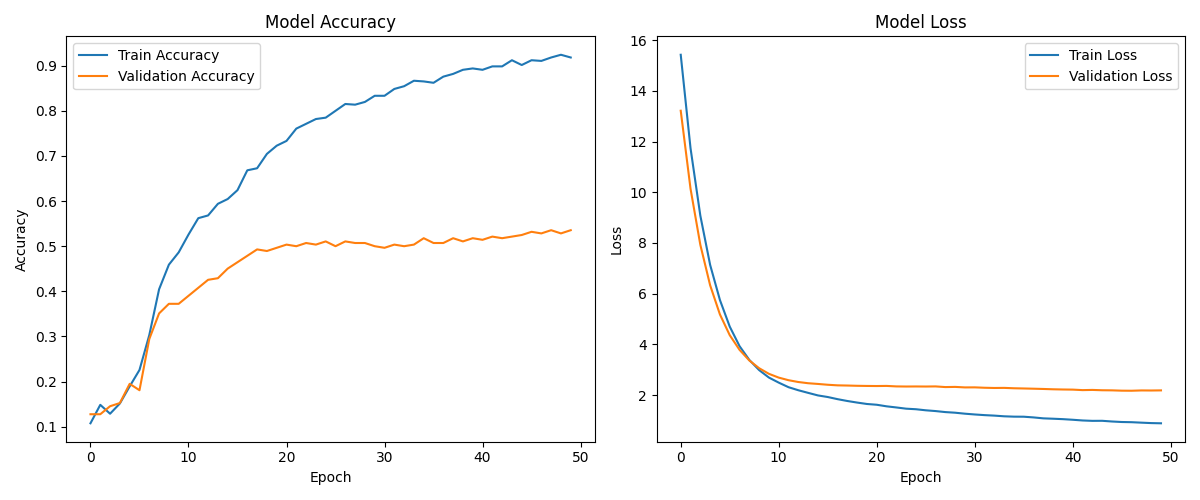
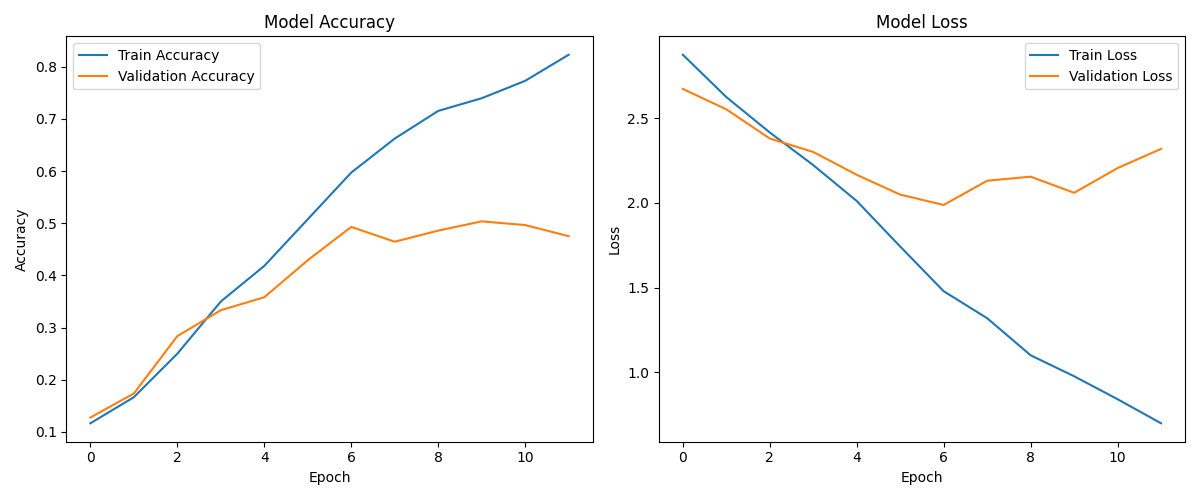
plot the results

diff --git a/textclassification/bugsToTeamsClassifier/build-model.py b/textclassification/bugsToTeamsClassifier/build-model.py
@@ -3,6 +3,8 @@ import json
 import keras
 import keras_nlp
 import tensorflow as tf
+import matplotlib.pyplot as plt
+import pandas as pd
 
 from normalization import normalizeText
 
@@ -138,7 +140,41 @@ early_stopping = keras.callbacks.EarlyStopping(
 )
 
 # Fit the model
-classifier.fit(train_ds, epochs=EPOCHS, validation_data=val_ds, callbacks=[early_stopping])
+
+history = classifier.fit(train_ds, epochs=EPOCHS, validation_data=val_ds, callbacks=[early_stopping])
+history_df = pd.DataFrame(history.history)
+history_df.to_csv('training_history.csv', index=False)
+
 classifier.save("model.keras")
-print("Evaluate\n")
+
+# calculate accuracy
 classifier.evaluate(test_ds, batch_size=BATCH_SIZE)
+
+def plot_and_save_history(history, filename='training_history.png'):
+    # Accuracy plot
+    plt.figure(figsize=(12, 5))
+
+    # Subplot 1: Accuracy
+    plt.subplot(1, 2, 1)
+    plt.plot(history['accuracy'], label='Train Accuracy')
+    plt.plot(history['val_accuracy'], label='Validation Accuracy')
+    plt.title('Model Accuracy')
+    plt.ylabel('Accuracy')
+    plt.xlabel('Epoch')
+    plt.legend(loc='upper left')
+
+    # Subplot 2: Loss
+    plt.subplot(1, 2, 2)
+    plt.plot(history['loss'], label='Train Loss')
+    plt.plot(history['val_loss'], label='Validation Loss')
+    plt.title('Model Loss')
+    plt.ylabel('Loss')
+    plt.xlabel('Epoch')
+    plt.legend(loc='upper right')
+
+    # Save plot as PNG file
+    plt.tight_layout()
+    plt.savefig(filename)
+    plt.show()
+
+plot_and_save_history(history.history, 'training_history.png')
